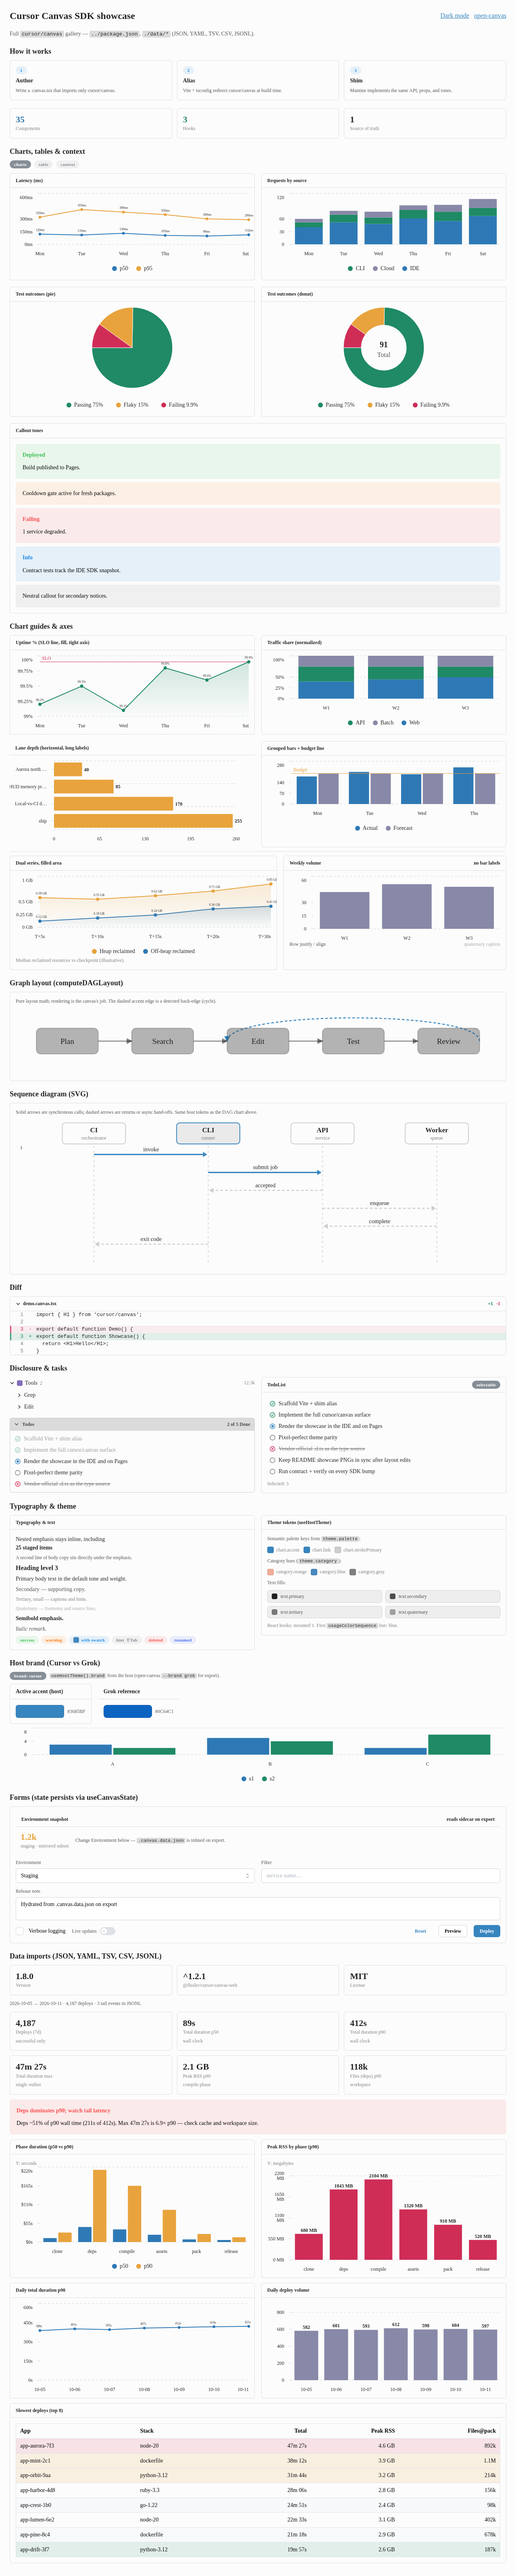
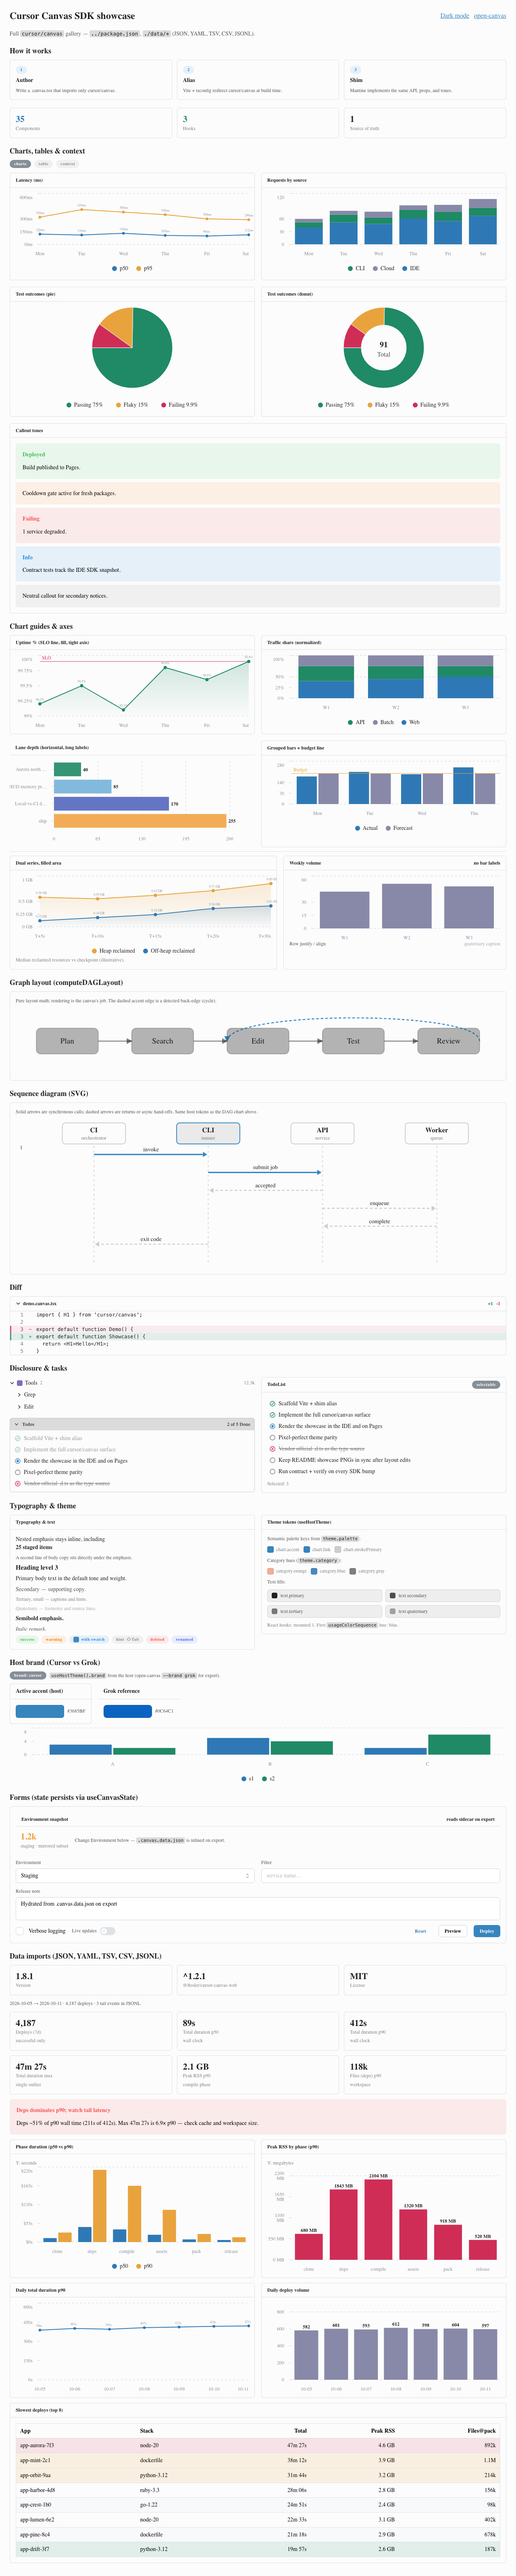
Sync demo from open-canvas showcase (per-category bar colors)

diff --git a/.cursor/canvases/demo.canvas.tsx b/.cursor/canvases/demo.canvas.tsx
@@ -10,7 +10,7 @@ if (typeof localStorage !== 'undefined') {
 	}
 }
 
-const pkg = {"name":"@flesler/open-canvas","version":"1.8.0","description":"Agent-friendly canvas visuals (charts, tables, UI) from .canvas.tsx to HTML, PNG, PDF, JPG, or IDE-ready canvas","type":"module","license":"MIT","repository":"github:flesler/open-canvas","bin":{"open-canvas":"./bin/open-canvas.js"},"engines":{"node":">=22.12.0","npm":">=10.0.0"},"scripts":{"build":"npm run build:cli","build:cli":"tsc -b tsconfig.cli.json --clean && tsc -b tsconfig.cli.json && find dist -name '*.d.ts' -delete && rm -rf dist/scripts dist/canvas-sdk-hash.js","build:github-pages":"npm run build:cli && bash bin/build-github-pages.sh","prepublishOnly":"npm run build:cli","prepare":"[ \"$CI\" != \"true\" ] && [ -d node_modules/husky ] && husky || true","eslint":"eslint --cache --cache-strategy content","lint":"npm run eslint -- 'src/**/*.ts' 'src/**/*.tsx' 'example/**/*.canvas.tsx'","lint:fix":"npm run lint -- --fix","vitest":"VITE_CJS_IGNORE_WARNING=true vitest","test":"npm run test:types && npm run test:unit","test:smoke":"bin/smoke.sh","test:smoke:global":"bin/smoke.sh --global","test:smoke:both":"bin/smoke.sh --both","test:contract":"bin/contract.sh","test:verify-canvases":"npm run build:cli && bash bin/verify-canvases.sh","test:unit":"npm run vitest -- run","test:types:cli":"tsc -p tsconfig.cli.json --noEmit","test:types:app":"tsc -p tsconfig.json","test:types":"npm run test:types:cli && npm run test:types:app","test:unit:min":"MINIMAL=1 npm run test:unit","test:unit:verbose":"VERBOSE=1 npm run test:unit","lint:full":"bin/parallel-run.sh test:types:cli test:types:app lint:fix","lint:full:silent":"bin/parallel-run.sh --silent test:types:cli test:types:app lint:fix && echo LINT OK","example:screenshot":"npm run build:cli && node dist/cli.js generate example/demo.canvas.tsx --title 'Open Canvas — SDK Showcase' --formats png --theme light --width 1280 && cp example/out/showcase.png docs/showcase-light.png && node dist/cli.js generate example/demo.canvas.tsx --title 'Open Canvas — SDK Showcase' --formats png --theme dark --width 1280 && cp example/out/showcase.png docs/showcase-dark.png","example:cursor":"npm run build:cli && node dist/cli.js generate example/demo.canvas.tsx --formats cursor","test:pack":"bash bin/check-npm-pack.sh","ci:local":"npm run build:cli && npm run lint:full && npm test && npm run test:pack && npm run test:contract && npm run test:smoke","agent:stop":"npm run -s lint:full:silent","changelog":"auto-changelog --commit-limit 100 --hide-credit"},"dependencies":{"@flesler/cursor-canvas-web":"^1.2.1","@mantine/charts":"^8.3.18","@mantine/core":"^8.3.18","@types/react":"^19.3.0","@types/react-dom":"^19.3.0","@vitejs/plugin-react":"^5.2.0","commander":"^13.1.0","d3-dsv":"^3.0.1","playwright":"^1.64.0","react":"^19.3.0","react-dom":"^19.3.0","recharts":"^3.10.1","ts-morph":"^28.0.0","typescript":"^5.9.3","vite":"^7.3.7","vite-plugin-singlefile":"^2.3.3","yaml":"^2.9.1"},"devDependencies":{"@eslint/js":"^10.0.1","@stylistic/eslint-plugin":"^5.10.0","@types/d3-dsv":"^3.0.7","@types/node":"^22.10.0","@typescript-eslint/eslint-plugin":"^8.68.0","@typescript-eslint/parser":"^8.68.0","auto-changelog":"^2.6.0","eslint":"^10.9.1","eslint-plugin-import-newlines":"^2.0.0","eslint-plugin-unused-imports":"^4.4.1","husky":"^9.1.7","jiti":"^2.7.0","tsx":"^4.21.0","type-fest":"^5.4.5","vitest":"^4.1.11"},"files":["bin/open-canvas.js","dist/**/*.js","LICENSE","src/shell","src/types","src/vendor/skill-bundle/**"]}
+const pkg = {"name":"@flesler/open-canvas","version":"1.8.1","description":"Agent-friendly canvas visuals (charts, tables, UI) from .canvas.tsx to HTML, PNG, PDF, JPG, or IDE-ready canvas","type":"module","license":"MIT","repository":"github:flesler/open-canvas","bin":{"open-canvas":"./bin/open-canvas.js"},"engines":{"node":">=22.12.0","npm":">=10.0.0"},"scripts":{"build":"npm run build:cli","build:cli":"tsc -b tsconfig.cli.json --clean && tsc -b tsconfig.cli.json && find dist -name '*.d.ts' -delete && rm -rf dist/scripts dist/canvas-sdk-hash.js","build:github-pages":"npm run build:cli && bash bin/build-github-pages.sh","prepublishOnly":"npm run build:cli","prepare":"[ \"$CI\" != \"true\" ] && [ -d node_modules/husky ] && husky || true","eslint":"eslint --cache --cache-strategy content","lint":"npm run eslint -- 'src/**/*.ts' 'src/**/*.tsx' 'example/**/*.canvas.tsx'","lint:fix":"npm run lint -- --fix","vitest":"VITE_CJS_IGNORE_WARNING=true vitest","test":"npm run test:types && npm run test:unit","test:smoke":"bin/smoke.sh","test:smoke:global":"bin/smoke.sh --global","test:smoke:both":"bin/smoke.sh --both","test:contract":"bin/contract.sh","test:verify-canvases":"npm run build:cli && bash bin/verify-canvases.sh","test:unit":"npm run vitest -- run","test:types:cli":"tsc -p tsconfig.cli.json --noEmit","test:types:app":"tsc -p tsconfig.json","test:types":"npm run test:types:cli && npm run test:types:app","test:unit:min":"MINIMAL=1 npm run test:unit","test:unit:verbose":"VERBOSE=1 npm run test:unit","lint:full":"bin/parallel-run.sh test:types:cli test:types:app lint:fix","lint:full:silent":"bin/parallel-run.sh --silent test:types:cli test:types:app lint:fix && echo LINT OK","example:screenshot":"npm run build:cli && node dist/cli.js generate example/demo.canvas.tsx --title 'Open Canvas — SDK Showcase' --formats png --theme light --width 1280 && cp example/out/showcase.png docs/showcase-light.png && node dist/cli.js generate example/demo.canvas.tsx --title 'Open Canvas — SDK Showcase' --formats png --theme dark --width 1280 && cp example/out/showcase.png docs/showcase-dark.png","example:cursor":"npm run build:cli && node dist/cli.js generate example/demo.canvas.tsx --formats cursor","test:pack":"bash bin/check-npm-pack.sh","ci:local":"npm run build:cli && npm run lint:full && npm test && npm run test:pack && npm run test:contract && npm run test:smoke","agent:stop":"npm run -s lint:full:silent","changelog":"auto-changelog --commit-limit 100 --hide-credit"},"dependencies":{"@flesler/cursor-canvas-web":"^1.2.1","@mantine/charts":"^8.3.18","@mantine/core":"^8.3.18","@types/react":"^19.3.0","@types/react-dom":"^19.3.0","@vitejs/plugin-react":"^5.2.0","commander":"^13.1.0","d3-dsv":"^3.0.1","playwright":"^1.64.0","react":"^19.3.0","react-dom":"^19.3.0","recharts":"^3.10.1","ts-morph":"^28.0.0","typescript":"^5.9.3","vite":"^7.3.7","vite-plugin-singlefile":"^2.3.3","yaml":"^2.9.1"},"devDependencies":{"@eslint/js":"^10.0.1","@stylistic/eslint-plugin":"^5.10.0","@types/d3-dsv":"^3.0.7","@types/node":"^22.10.0","@typescript-eslint/eslint-plugin":"^8.68.0","@typescript-eslint/parser":"^8.68.0","auto-changelog":"^2.6.0","eslint":"^10.9.1","eslint-plugin-import-newlines":"^2.0.0","eslint-plugin-unused-imports":"^4.4.1","husky":"^9.1.7","jiti":"^2.7.0","tsx":"^4.21.0","type-fest":"^5.4.5","vitest":"^4.1.11"},"files":["bin/open-canvas.js","dist/**/*.js","LICENSE","src/shell","src/types","src/vendor/skill-bundle/**"]}
 const daily = [{"date":"2026-10-05","deploys":"582","totalDurationP90Sec":"388"},{"date":"2026-10-06","deploys":"601","totalDurationP90Sec":"401"},{"date":"2026-10-07","deploys":"593","totalDurationP90Sec":"395"},{"date":"2026-10-08","deploys":"612","totalDurationP90Sec":"407"},{"date":"2026-10-09","deploys":"598","totalDurationP90Sec":"412"},{"date":"2026-10-10","deploys":"604","totalDurationP90Sec":"418"},{"date":"2026-10-11","deploys":"597","totalDurationP90Sec":"421"}]
 const deployEvents = [{"date":"2026-10-09","app":"app-aurora-7f3","durationSec":2847},{"date":"2026-10-10","app":"app-mint-2c1","durationSec":2292},{"date":"2026-10-11","app":"app-orbit-9aa","durationSec":1904}]
 const outlierRows = [{"app":"app-aurora-7f3","stack":"node-20","total":"47m 27s","peak_rss":"4.6 GB","files_pack":"892k"},{"app":"app-mint-2c1","stack":"dockerfile","total":"38m 12s","peak_rss":"3.9 GB","files_pack":"1.1M"},{"app":"app-orbit-9aa","stack":"python-3.12","total":"31m 44s","peak_rss":"3.2 GB","files_pack":"214k"},{"app":"app-harbor-4d8","stack":"ruby-3.3","total":"28m 06s","peak_rss":"2.8 GB","files_pack":"156k"},{"app":"app-crest-1b0","stack":"go-1.22","total":"24m 51s","peak_rss":"2.4 GB","files_pack":"98k"},{"app":"app-lumen-6e2","stack":"node-20","total":"22m 33s","peak_rss":"3.1 GB","files_pack":"402k"},{"app":"app-pine-8c4","stack":"dockerfile","total":"21m 18s","peak_rss":"2.9 GB","files_pack":"678k"},{"app":"app-drift-3f7","stack":"python-3.12","total":"19m 57s","peak_rss":"2.6 GB","files_pack":"187k"}]
@@ -814,7 +814,7 @@ export default function ShowcaseCanvas() {
 									'ship',
 								]}
 								series={[
-									{ name: 'Depth', data: [40, 85, 170, 255], tone: 'warning' },
+									{ name: 'Depth', data: [40, 85, 170, 255] },
 								]}
 								height={200}
 								horizontal
